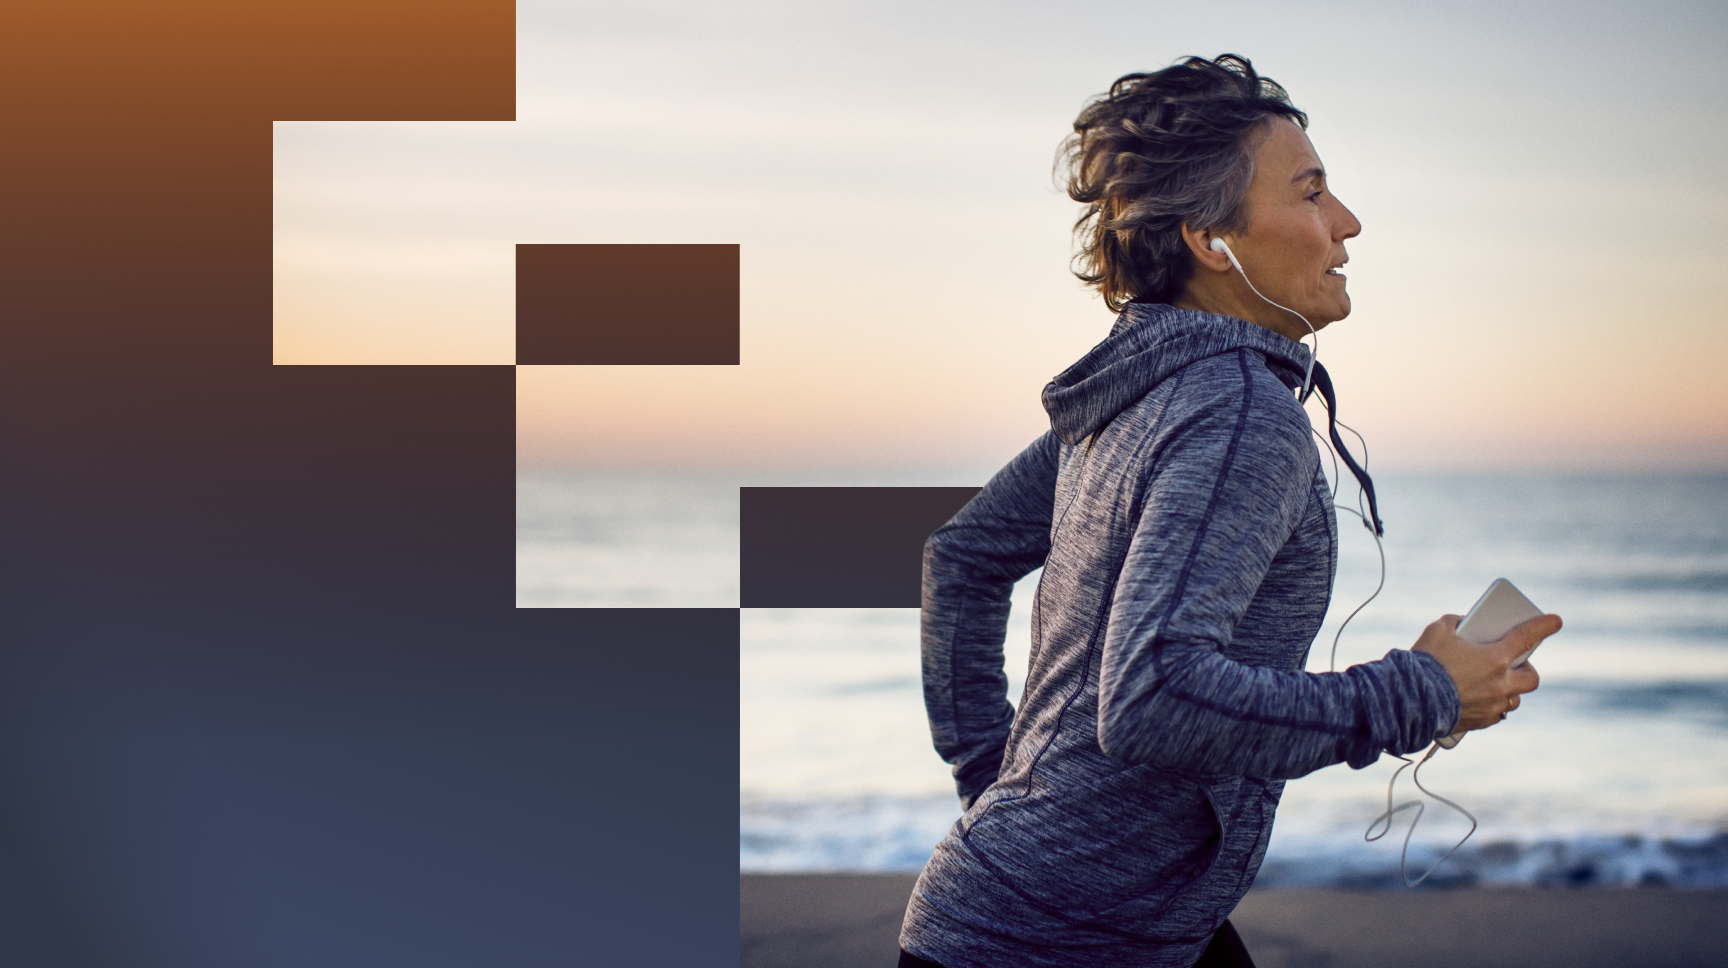
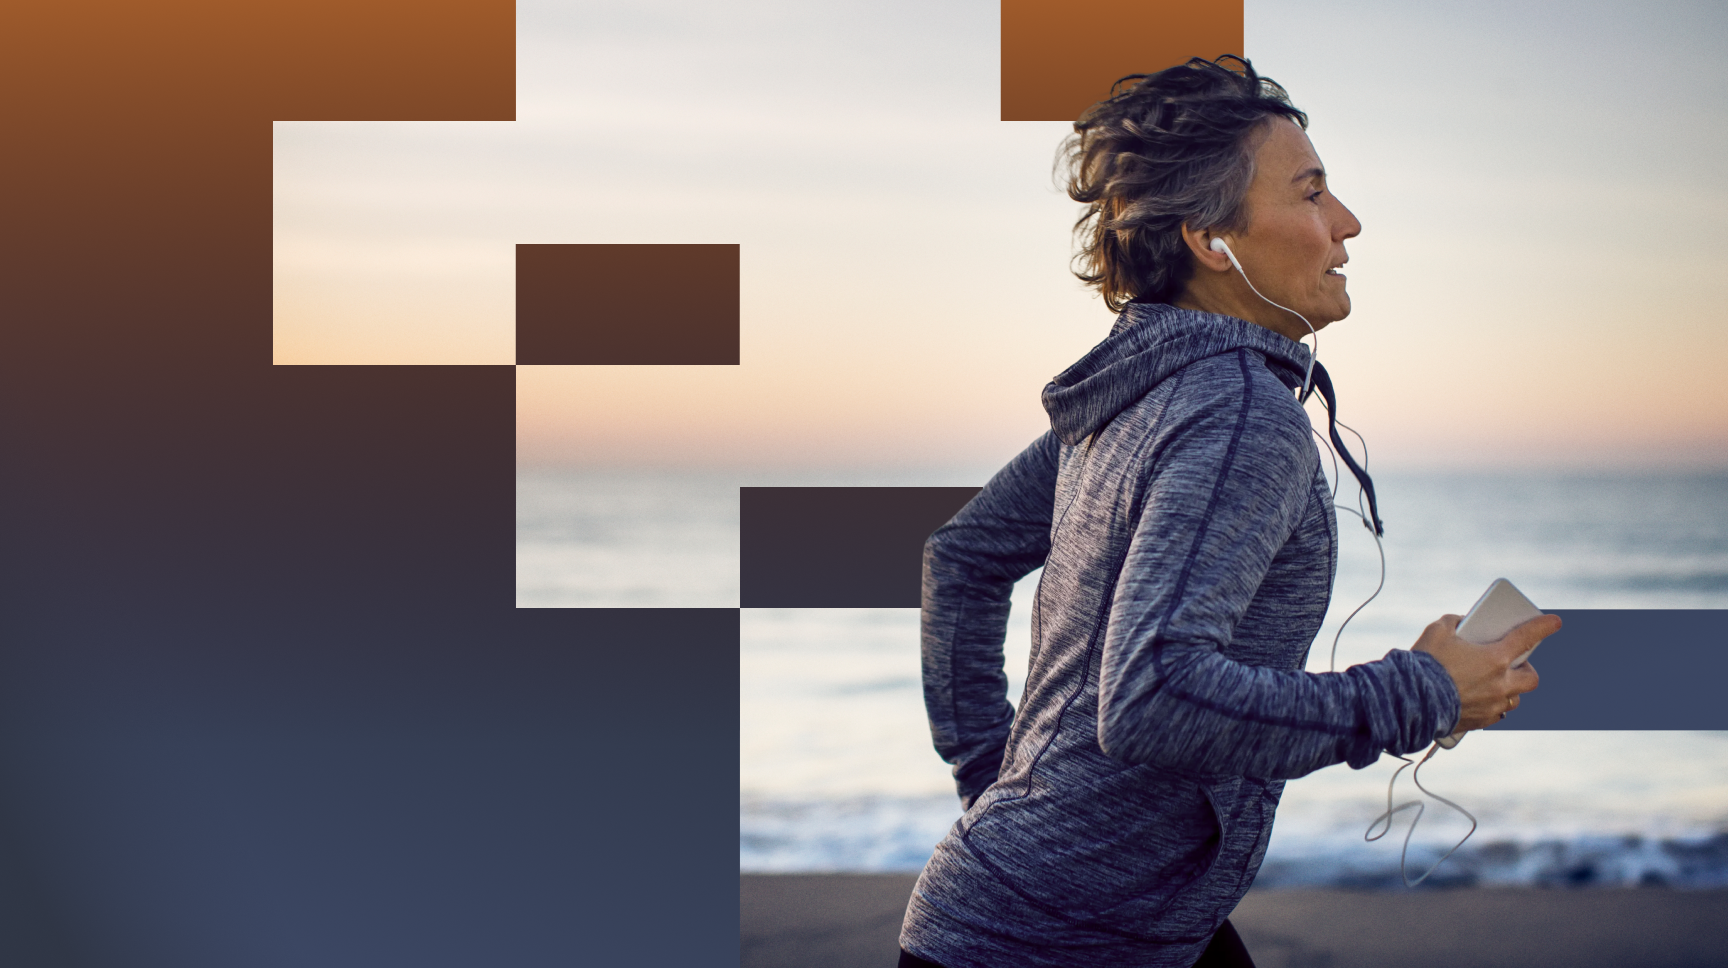
Restore beach runner motion blocks

Changed region(s): [[0.8438, 0.6198, 1.0, 0.7748], [0.5625, 0.0, 0.7188, 0.124]]

diff --git a/figma-hero-shot.html b/figma-hero-shot.html
@@ -694,7 +694,7 @@
   </style>
 </head>
 <body>
-  <main class="hero-frame" aria-label="Aleron MD layered Figma hero carousel" data-build-signature="five-plane-test-20260530c-photo-lock">
+  <main class="hero-frame" aria-label="Aleron MD layered Figma hero carousel" data-build-signature="five-plane-test-20260530d-slide3-motion-blocks">
     <div class="hero-slide slide-one is-active" data-slide="0" aria-hidden="false">
       <img class="five-plane-layer hero-bg-plane" data-depth-plane="background" data-motion-layer="background" data-figma-node="674:41457 674:41458 674:41459" src="assets/figma-five-plane-test/hero01-bg-plane.png?v=five-plane-20260530b" alt="" aria-hidden="true" />
       <img class="five-plane-layer hero-mid-blocks-plane" data-depth-plane="midground-blocks" data-motion-layer="parallax-blocks" data-figma-node="674:41460 674:41466" src="assets/figma-five-plane-test/hero01-mid-blocks-plane.png?v=five-plane-20260530b" alt="" aria-hidden="true" />
@@ -710,10 +710,10 @@
     </div>
 
     <div class="hero-slide slide-three" data-slide="2" aria-hidden="true">
-      <img class="five-plane-layer hero-bg-plane" data-depth-plane="background" data-motion-layer="background" data-figma-node="674:42199" src="assets/figma-five-plane-test/hero03-bg-plane.png?v=five-plane-20260530b" alt="" aria-hidden="true" />
-      <img class="five-plane-layer hero-mid-blocks-plane" data-depth-plane="midground-blocks" data-motion-layer="parallax-blocks" data-figma-node="674:42206" src="assets/figma-five-plane-test/hero03-mid-blocks-plane.png?v=five-plane-20260530b" alt="" aria-hidden="true" />
-      <img class="five-plane-layer hero-subject-plane" data-depth-plane="foreground-subject" data-motion-layer="subject" data-figma-node="674:42225" src="assets/figma-five-plane-test/hero03-subject-plane.png?v=five-plane-20260530b" alt="" aria-hidden="true" />
-      <img class="five-plane-layer hero-anchor-block-plane" data-depth-plane="anchored-left-structure" data-motion-layer="anchored" data-figma-node="674:42200 674:42206 674:42226" src="assets/figma-five-plane-test/hero03-anchor-block-plane.png?v=five-plane-20260530b" alt="" aria-hidden="true" />
+      <img class="five-plane-layer hero-bg-plane" data-depth-plane="background" data-motion-layer="background" data-figma-node="674:42199" src="assets/figma-five-plane-test/hero03-bg-plane.png?v=five-plane-20260530d" alt="" aria-hidden="true" />
+      <img class="five-plane-layer hero-mid-blocks-plane" data-depth-plane="midground-blocks" data-motion-layer="parallax-blocks" data-figma-node="674:42206 674:42200" src="assets/figma-five-plane-test/hero03-mid-blocks-plane.png?v=five-plane-20260530d" alt="" aria-hidden="true" />
+      <img class="five-plane-layer hero-subject-plane" data-depth-plane="foreground-subject" data-motion-layer="subject" data-figma-node="674:42225" src="assets/figma-five-plane-test/hero03-subject-plane.png?v=five-plane-20260530d" alt="" aria-hidden="true" />
+      <img class="five-plane-layer hero-anchor-block-plane" data-depth-plane="anchored-left-structure" data-motion-layer="anchored" data-figma-node="674:42226" src="assets/figma-five-plane-test/hero03-anchor-block-plane.png?v=five-plane-20260530d" alt="" aria-hidden="true" />
     </div>
 
     <div class="hero-slide slide-four" data-slide="3" aria-hidden="true">

diff --git a/handoffs/2026-05-30-figma-hero-slide3-motion-block-fix.md b/handoffs/2026-05-30-figma-hero-slide3-motion-block-fix.md
@@ -1,0 +1,48 @@
+# Figma hero slide 3 motion block fix
+
+Date: 2026-05-30
+Agent: Hermes via OpenAI Codex
+Repo: `meridian-landing`
+Branch: `main`
+Base SHA: `1cf12df`
+
+## Goal
+
+Restore the two missing rectangular motion blocks on the beach runner carousel slide.
+
+## Files changed
+
+- `assets/figma-five-plane-test/hero03-mid-blocks-plane.png`: added the two missing Figma-derived motion blocks.
+- `assets/figma-five-plane-test/hero03-five-plane-composite.png`: regenerated the slide 3 proof composite.
+- `figma-hero-shot.html`: cache-busted slide 3 image URLs to `five-plane-20260530d` and updated the build signature to `five-plane-test-20260530d-slide3-motion-blocks`.
+
+## Root cause
+
+The slide 3 mid block plane had been simplified too aggressively. It kept the central dark block but omitted:
+
+1. the top-center warm block from Figma node `674:42206`,
+2. the right-side dark block from Figma node `674:42200`.
+
+These two regions were visible in the full Figma reference but absent from the generated five-plane composite.
+
+## Fix
+
+Used the Figma exports as source pixels and patched only those two missing regions into `hero03-mid-blocks-plane.png`, preserving the existing five-plane contract:
+
+1. background photo,
+2. midground moving blocks,
+3. subject cutout,
+4. anchored foreground blocks,
+5. DOM chrome.
+
+## Verification
+
+- Pixel comparison against `hero03-figma-reference.png` improved from large missing-region diffs to only small edge residuals.
+- New composite diff stats: mean RGB diff `0.085`, pixels over threshold 35: `831`.
+- Verified the top-center and right-side block regions now contain nontransparent pixels in the mid block plane.
+- Verified the corrected composite visually includes both missing blocks.
+
+## Open risks
+
+- Remaining diff pixels are minor 1 to 2 px edge alignment artifacts, not missing blocks.
+- The broader carousel still uses the full-canvas mobile fit from the earlier mobile patch.
